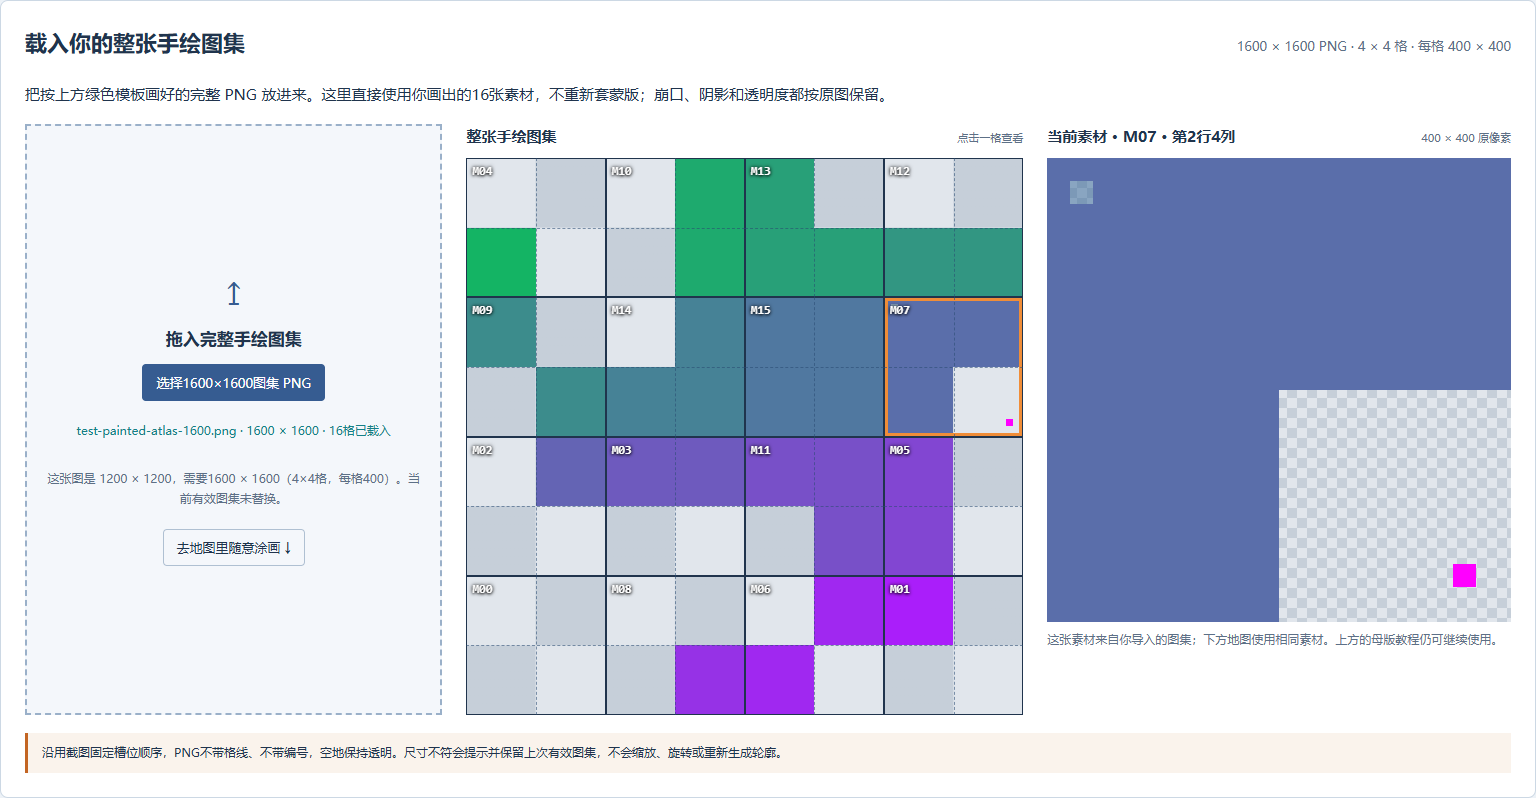
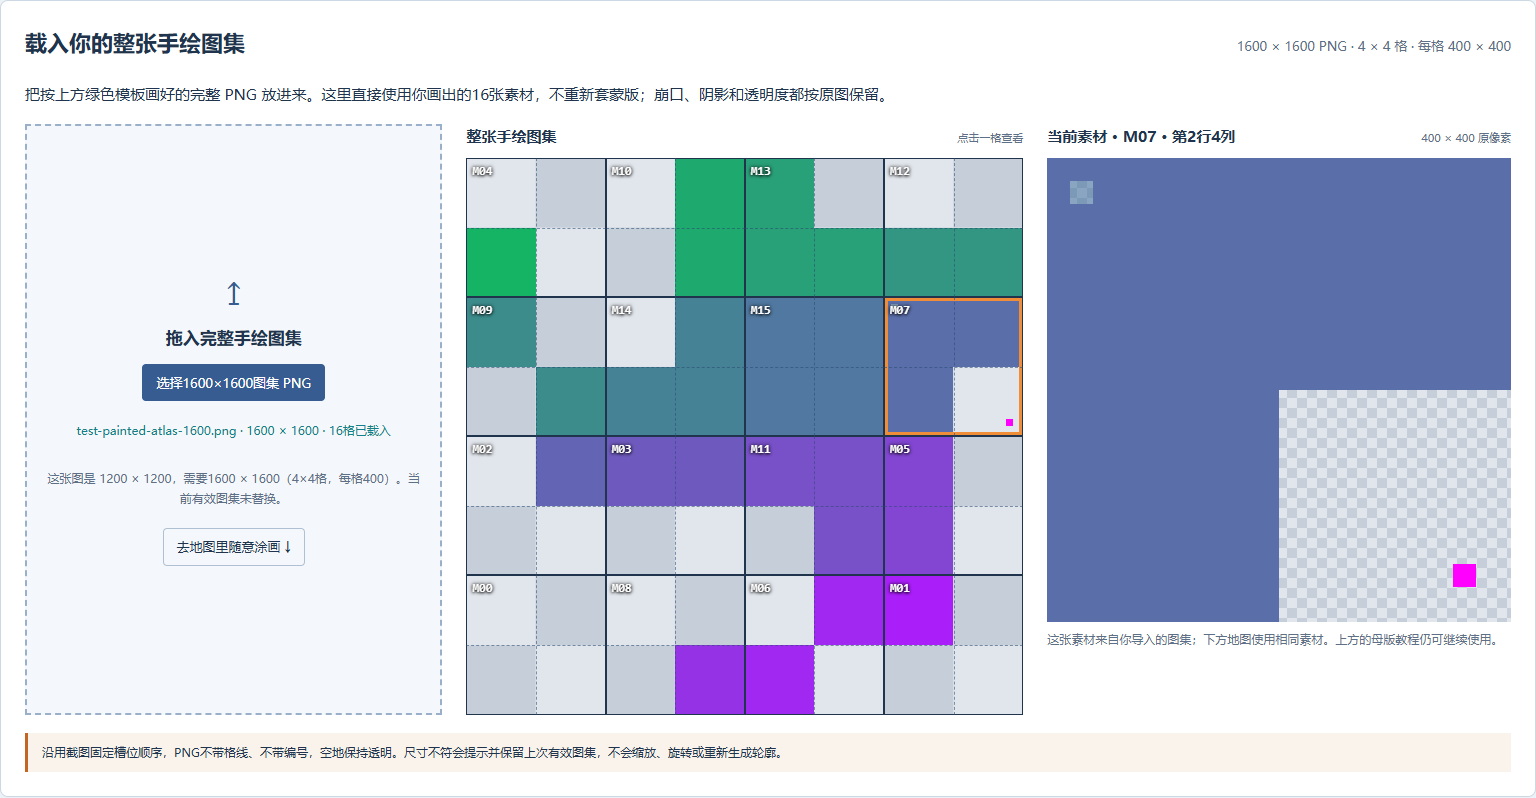
feat: export dual-grid templates with grid lines and labels

diff --git a/tools/dualgrid-visual-tutorial/template.js b/tools/dualgrid-visual-tutorial/template.js
@@ -38,9 +38,24 @@
   const k=slots.indexOf(current);$('templateSelection').textContent=`选中：第 ${Math.floor(k/4)+1} 行 · 第 ${k%4+1} 列 → ${idOf(current)} · ${names[current]}。`+(current===7?' 三个角留石砖，右下角挖空；这正是下方默认教学的那一张。':' 点击下方四步按钮，查看这格的保留区域与手绘位置。');drawGuides();
  }
  function download(c,name){c.toBlob(blob=>{if(!blob)return;const url=URL.createObjectURL(blob),a=document.createElement('a');a.href=url;a.download=name;a.click();setTimeout(()=>URL.revokeObjectURL(url),1000);},'image/png');}
+ function markedTemplate(withGreen){
+  const c=withGreen?atlas(1600,false):document.createElement('canvas');
+  if(!withGreen)c.width=c.height=1600;
+  const g=c.getContext('2d');
+  // 200px中线为虚线，400px切格线为实线；不导出当前选择框。
+  g.strokeStyle='#496a8a';g.lineWidth=2;g.setLineDash([10,8]);g.beginPath();
+  for(let i=0;i<4;i++){const p=i*400+200;g.moveTo(p,0);g.lineTo(p,1600);g.moveTo(0,p);g.lineTo(1600,p);}g.stroke();g.setLineDash([]);
+  g.fillStyle='#20344d';
+  for(let i=0;i<=4;i++){const p=Math.max(0,Math.min(1596,i*400-2));g.fillRect(p,0,4,1600);g.fillRect(0,p,1600,4);}
+  g.font='bold 32px Consolas, monospace';g.textBaseline='top';g.textAlign='left';g.lineJoin='round';g.lineWidth=5;
+  slots.forEach((m,i)=>{const x=i%4*400+14,y=Math.floor(i/4)*400+14;g.strokeStyle='#20344d';g.strokeText(idOf(m),x,y);g.fillStyle='#fff';g.fillText(idOf(m),x,y);});
+  return c;
+ }
  for(const id of ['templateLines','templateLabels','templateSmooth'])$(id).onchange=render;
  $('exportTemplate').onclick=()=>download(atlas(1536,false),'截图布局-透明占用模板-1536.png');
  $('exportTemplate400').onclick=()=>download(atlas(1600,false),'双网格-绿色模板-每格400-整版1600.png');
+ $('exportTemplateMarked').onclick=()=>download(markedTemplate(true),'双网格-绿色模板-400格-带网格编号.png');
+ $('exportTemplateGuides').onclick=()=>download(markedTemplate(false),'双网格-400格-网格编号参考层.png');
  $('exportTemplateTexture').onclick=()=>download(atlas(1536,true),`截图布局-${$('templateSmooth').checked?'平滑':'直角'}-母版示范-1536.png`);
  $('exportTemplateTable').onclick=()=>{
   const rows=['槽位0起,行1起,列1起,教材编号,名称,左上1,右上2,左下4,右下8',...slots.map((m,i)=>[i,Math.floor(i/4)+1,i%4+1,idOf(m),names[m],...[1,2,4,8].map(b=>m&b?1:0)].join(','))];

diff --git a/tools/dualgrid-visual-tutorial/index.html b/tools/dualgrid-visual-tutorial/index.html
@@ -26,7 +26,8 @@
 </div>
 <div class="toolbar"><label><input id="templateLines" type="checkbox" checked>显示切格线 / 四角分区</label><label><input id="templateLabels" type="checkbox" checked>显示教材编号</label><label><input id="templateSmooth" type="checkbox">右图改看平滑轮廓示范</label></div>
 <p id="templateSelection" class="draw-tip" aria-live="polite"></p>
-<div class="exports"><button id="exportTemplate400" class="primary">↓ 绿色模板：每格400 / 整版1600 PNG</button><button id="exportTemplate">↓ 旧384格模板（1536 PNG）</button><button id="exportTemplateTexture">↓ 旧384格母版示范图集</button><button id="exportTemplateTable">↓ 截图布局编号对照表</button></div>
+<div class="exports"><button id="exportTemplateMarked" class="primary">↓ 400格绿色模板＋网格＋编号</button><button id="exportTemplateGuides">↓ 独立网格编号参考层</button><button id="exportTemplate400">↓ 无标记绿色模板：整版1600 PNG</button><button id="exportTemplate">↓ 旧384格模板（1536 PNG）</button><button id="exportTemplateTexture">↓ 旧384格母版示范图集</button><button id="exportTemplateTable">↓ 截图布局编号对照表</button></div>
+<p class="fine">带标记版：400像素实线切格、200像素虚线四角分区、每格左上角M编号。独立参考层只有格线和编号，可在SAI2叠到绘画层上；导出最终手绘图集时隐藏参考层。两种标记下载均不含棋盘或橙色选中框。</p>
 <p class="fine">这里按你提供的截图逐格重建排列。教材编号用于对照；下方原有 M00→M15 图集采用另一种排列。接 Unity 时，应以实际插件的槽位规则为准。</p>
 </section>
 

diff --git a/docs/tasks/DUALGRID-TUTORIAL-01.md b/docs/tasks/DUALGRID-TUTORIAL-01.md
@@ -64,3 +64,9 @@
 实际交付PNG：`tools/dualgrid-visual-tutorial/validation/400-atlas/绿色模板-1600.png`，源于页面真实下载，透明且无辅助线；同目录 `M07-400.png` 为400母版示范导出，`test-painted-atlas-1600.png` 为原创技术夹具（不同槽色和特意保留的品红笔触用于查映射/不重套蒙版，不是用户画作）。真实浏览器截图 `05-整图集载入.png`、`06-手绘图集试画.png`。
 
 本轮不接Unity工程、不自动配置插件索引、不操作SAI2，不修改用户原图。已有母版教学与新整图集模式并存；图片仅在页面会话保存，刷新需要重新导入。开发细则SHA256仍为 B6B0667CDBB6FFA5192F726DCEA12CE8EECFC76A08F547FBB42769FCF2CEABA4。按根AGENTS本轮选择性GitHub main提交，Gitee不推；用户真实手绘接缝/游戏端实际效果待使用本人图集检查。
+
+### 400模板格线与编号补充
+
+用户要求透明PNG带网格线及M00–M15编号。新增两个明确下载按钮：绿色模板+标记；独立透明网格编号层。两者均1600×1600，400实线、200虚线、16格左上角描边白字；不含查看棋盘、橙色选中框。保留所有无标记与旧384出口。SAI2参考层可独立隐藏，最终图集不应保留参考标记。
+
+`tests/marked-template.cjs` 先因入口缺失失败，再实际下载解码通过：尺寸1600、空区Alpha0、绿色RGB、实线/虚线像素、全部16格编号区域；单独标记层内部无绿色背景。查看开关关闭时下载仍完整，避免误把当前查看状态当导出规则。输出 `validation/400-atlas/绿色模板-1600-带网格编号.png`、`网格编号参考层-1600.png`。本轮只改工具和本任务记录；不改原图/游戏/工坊/开发细则，不接Unity。

diff --git a/记录/项目状态.md b/记录/项目状态.md
@@ -1123,3 +1123,10 @@ S3连续实施技术检查点：隔离入口3/37根、11/222分支、5/206被动
 用户要求正式400格且保留原内容。新增1600透明绿色模板下载，保留旧384格模板；母版默认400并兼容384原尺寸。新增1600整图集载入/400格原像素查看，地图直接使用16张手绘素材，独立于教学母版，可切回旧示范；不重套蒙版，错误尺寸保留有效图。
 新400/16槽映射/源Alpha与轮廓外笔触保留/地图两模式实际像素/涂画/移动布局通过，旧核心5项及旧浏览器/模板回归通过。真实模板PNG与两张新增截图在 tools/dualgrid-visual-tutorial/validation/400-atlas/。Unity插件配置与用户实际手绘验收未做；游戏/工坊/人工区/开发细则未改。仅本轮GitHub main，不Gitee。[任务](../docs/tasks/DUALGRID-TUTORIAL-01.md)。
 <!-- DUALGRID-400-ATLAS:end -->
+
+
+<!-- DUALGRID-MARKED-TEMPLATE:begin -->
+## 2026-10-14 双网格400模板：网格与编号导出
+
+按用户要求新增1600透明绿色模板+400实线/200虚线/M00–M15编号，以及独立透明网格编号参考层。无标记与旧384下载保留。实际下载解码验证尺寸、透明空区、线段、16格编号区域和无绿色的参考层通过；400整图集回归通过。SAI2最终导出隐藏参考层。文件在 tools/dualgrid-visual-tutorial/validation/400-atlas/，任务续记 docs/tasks/DUALGRID-TUTORIAL-01.md。仅本轮GitHub main，不Gitee，保留其他dirty。
+<!-- DUALGRID-MARKED-TEMPLATE:end -->

diff --git a/记录/2026-10-14.md b/记录/2026-10-14.md
@@ -11,3 +11,10 @@ S3连续实施技术检查点：隔离入口3/37根、11/222分支、5/206被动
 用户要求正式400格且保留原内容。新增1600透明绿色模板下载，保留旧384格模板；母版默认400并兼容384原尺寸。新增1600整图集载入/400格原像素查看，地图直接使用16张手绘素材，独立于教学母版，可切回旧示范；不重套蒙版，错误尺寸保留有效图。
 新400/16槽映射/源Alpha与轮廓外笔触保留/地图两模式实际像素/涂画/移动布局通过，旧核心5项及旧浏览器/模板回归通过。真实模板PNG与两张新增截图在 tools/dualgrid-visual-tutorial/validation/400-atlas/。Unity插件配置与用户实际手绘验收未做；游戏/工坊/人工区/开发细则未改。仅本轮GitHub main，不Gitee。[任务](../docs/tasks/DUALGRID-TUTORIAL-01.md)。
 <!-- DUALGRID-400-ATLAS:end -->
+
+
+<!-- DUALGRID-MARKED-TEMPLATE:begin -->
+## 2026-10-14 双网格400模板：网格与编号导出
+
+按用户要求新增1600透明绿色模板+400实线/200虚线/M00–M15编号，以及独立透明网格编号参考层。无标记与旧384下载保留。实际下载解码验证尺寸、透明空区、线段、16格编号区域和无绿色的参考层通过；400整图集回归通过。SAI2最终导出隐藏参考层。文件在 tools/dualgrid-visual-tutorial/validation/400-atlas/，任务续记 docs/tasks/DUALGRID-TUTORIAL-01.md。仅本轮GitHub main，不Gitee，保留其他dirty。
+<!-- DUALGRID-MARKED-TEMPLATE:end -->

diff --git a/tools/dualgrid-visual-tutorial/README.md b/tools/dualgrid-visual-tutorial/README.md
@@ -24,3 +24,5 @@
 4. 地图自动切到手绘图集。左侧点/拖涂画，右键擦除，或用六种示例检查实际拼接；“地图素材”可切回原有母版示范，已导入图集仍保留。
 
 截图顺序与顺排图集不是同一排列，正式手绘载入须用上方截图布局的绿色模板。完整图集尺寸错误会显示具体尺寸并保留上次有效图片。图片均本地处理，不改原文件；刷新页面后需要重新导入。
+
+画图参考可下载“400格绿色模板＋网格＋编号”：1600×1600，400实线切格、200虚线中线，各格标注M00–M15。另有“独立网格编号参考层”透明PNG，便于在SAI2单独叠加、隐藏。无标记版仍保留。最终图集导出前隐藏参考层，避免把编号与格线一起导入地图。
